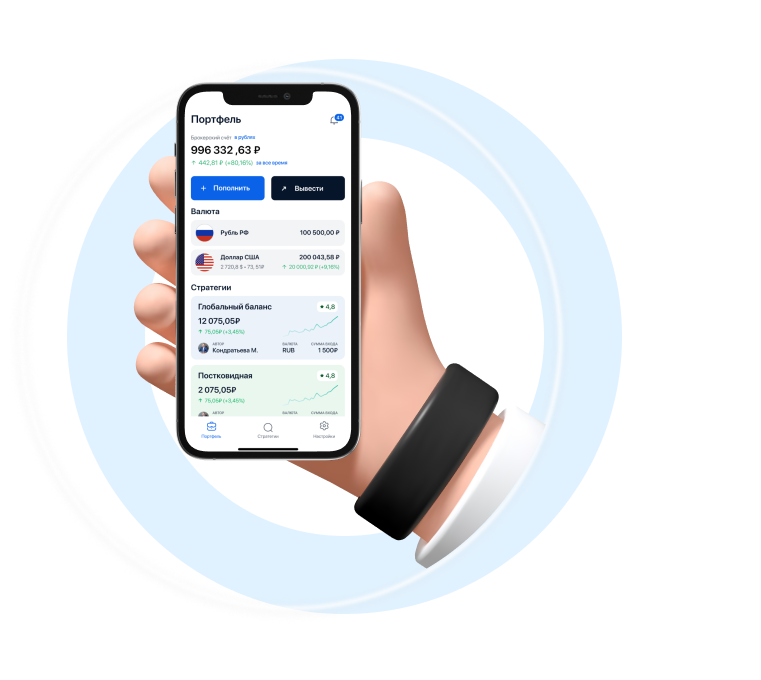
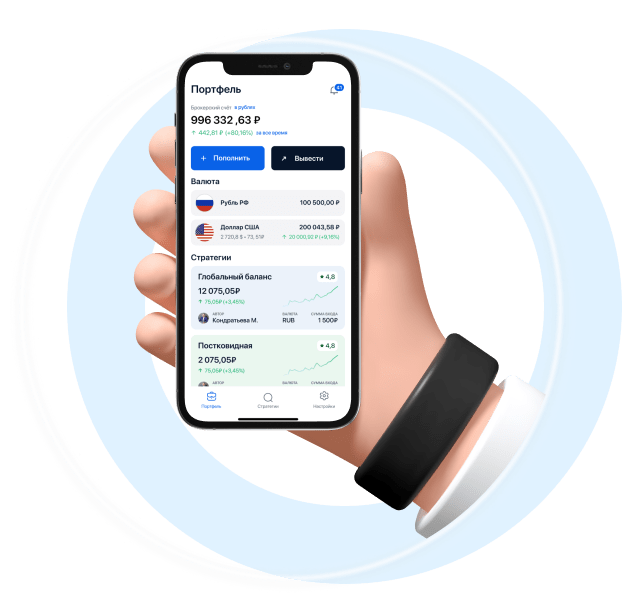
17.06.23 15:50

diff --git a/main.css b/main.css
@@ -14,6 +14,7 @@ body {
   background-color: #cbecff;
   width: 100%;
   padding-bottom: 20px;
+  margin-bottom: 40px;
 }
 
 .lang {
@@ -32,15 +33,18 @@ body {
   width: 26px;
   height: 26px;
   margin-left: 15px;
+  cursor: pointer;
 }
 
 .lang_item.active {
   background-color: #fff;
   border-radius: 50%;
+  cursor: pointer;
 }
 .lang_link {
   font-size: 14px;
   line-height: 1.4;
+  cursor: pointer;
 }
 
 .hero_title {
@@ -66,7 +70,8 @@ body {
   line-height: 1.3;
   color: #29374e;
 }
-.hero_btn {
+.hero_btn,
+.value_btn {
   width: 100%;
   height: 52px;
   margin-bottom: 15px;
@@ -79,6 +84,7 @@ body {
   border-radius: 12px;
   outline: none;
   border: none;
+  cursor: pointer;
 }
 
 .advantages_list {
@@ -136,7 +142,8 @@ body {
   .container {
     width: 480px;
   }
-  .hero_btn {
+  .hero_btn,
+  .value_btn {
     width: 200px;
   }
   .advantages_text {
@@ -156,7 +163,7 @@ body {
     overflow: hidden;
   }
   .img {
-    width: 500px;
+    width: 400px;
   }
 }
 @media screen and (min-width: 768px) {
@@ -175,11 +182,12 @@ body {
   }
   .hero_image {
     position: absolute;
-    top: 30px;
-    right: -40px;
+    top: 35px;
+    right: 10px;
+    overflow: hidden;
   }
   .img {
-    width: 600px;
+    width: 420px;
   }
   .advantages_item {
     width: 240px;
@@ -197,6 +205,14 @@ body {
 @media screen and (min-width: 1054px) {
   .hero {
     height: 670px;
+    margin-bottom: 142px;
+  }
+  .hero_image {
+    top: 35px;
+    right: -40px;
+  }
+  .img {
+    width: 620px;
   }
   .container {
     width: 1054px;
@@ -215,5 +231,187 @@ body {
   .advantages_item {
     width: 240px;
     padding: 22px 40px 30px 20px;
+  }
+}
+
+/* ---PRODUCTS-- */
+.products {
+}
+.products_title,
+.value_title {
+  text-align: center;
+  margin-bottom: 24px;
+  font-weight: 600;
+  font-size: 24px;
+  line-height: 1.3;
+  color: #29374e;
+}
+.title_important {
+  color: #0962e8;
+}
+
+.products_list {
+  display: flex;
+  flex-direction: column;
+  align-items: center;
+}
+.products_item {
+  display: flex;
+  justify-content: space-between;
+  width: 305px;
+  height: 215px;
+  margin-bottom: 16px;
+  padding-top: 25px;
+  padding-left: 15px;
+  padding-right: 15px;
+  background: #e9f6ff;
+  border-radius: 30px;
+}
+.products_text {
+  width: 162px;
+  line-height: 1.4;
+  color: #29374e;
+}
+.primary_text {
+  font-weight: 600;
+  font-size: 16px;
+}
+.secondary_text {
+  font-weight: 400;
+  font-size: 13px;
+}
+.product_img {
+  width: 142px;
+}
+
+/* ---VALUE-- */
+
+.value {
+  margin-top: 20px;
+}
+.value_left {
+  margin-bottom: 32px;
+}
+.value_text {
+  text-align: center;
+  margin-bottom: 12px;
+  font-weight: 500;
+  font-size: 14px;
+  line-height: 1.4;
+  color: #29374e;
+}
+.value_list {
+  display: flex;
+  flex-direction: column;
+  align-items: center;
+}
+.value_item {
+  position: relative;
+  width: 164px;
+  margin-bottom: 20px;
+  padding: 40px 11px 16px 18px;
+  background-color: #fff;
+  box-shadow: 6px 4px 12px rgba(0, 0, 0, 0.05);
+  border-radius: 20px;
+}
+.value_icon_block {
+  position: absolute;
+  top: -6px;
+  left: 22px;
+  display: flex;
+  align-items: center;
+  justify-content: center;
+  width: 24px;
+  height: 24px;
+  margin-bottom: 8px;
+  background-color: #eff9ff;
+  border-radius: 50%;
+}
+.value_item_text {
+  font-weight: 500;
+  font-size: 14px;
+  line-height: 1.4;
+
+  color: #29374e;
+}
+
+@media screen and (min-width: 375px) {
+  .value_list {
+    flex-direction: row;
+    flex-wrap: wrap;
+    justify-content: space-between;
+  }
+}
+@media screen and (min-width: 480px) {
+  .products_item {
+    width: 345px;
+    height: 215px;
+    padding-top: 25px;
+    padding-left: 16px;
+    padding-right: 20px;
+  }
+  .product_img {
+    width: 142px;
+  }
+}
+@media screen and (min-width: 1054px) {
+  .products_title {
+    margin-bottom: 44px;
+  }
+  .products_list {
+    flex-direction: row;
+    justify-content: space-between;
+  }
+  .products_item {
+    width: 502px;
+    height: 328px;
+    padding-top: 37px;
+    padding-left: 20px;
+    padding-right: 33px;
+  }
+  .products_text {
+    width: 200px;
+    color: #000000;
+  }
+  .primary_text {
+    font-size: 20px;
+    margin-bottom: 12px;
+  }
+  .secondary_text {
+    font-size: 14px;
+  }
+  .product_img {
+    width: 218px;
+  }
+  .value {
+    margin-top: 100px;
+  }
+  .value .container {
+    display: flex;
+  }
+  .value_title {
+    text-align: left;
+    font-weight: 500;
+    font-size: 38px;
+  }
+  .value_text {
+    text-align: left;
+    width: 410px;
+    margin-bottom: 37px;
+  }
+  .value_left {
+    margin-right: 20px;
+    width: 800px;
+  }
+  .value_right {
+    margin-top: 20px;
+  }
+  .value_item {
+    width: 230px;
+    box-shadow: none;
+  }
+  .value_icon_block {
+    width: 40px;
+    height: 40px;
   }
 }

diff --git a/index.html b/index.html
@@ -84,9 +84,85 @@
           </div>
         </div>
       </section>
+
+      <!--  PRODUCTS-->
+      <section class="products">
+        <div class="container">
+          <h3 class="products_title">
+            Наши <span class="title_important">ключевые продукты</span><br />
+            для инвестиций
+          </h3>
+          <ul class="products_list">
+            <li class="products_item">
+              <div class="products_text">
+                <p class="primary_text">Платформа для автоследования</p>
+                <p class="secondary_text">Копирование стратегий в автономном режиме</p>
+              </div>
+              <img src="./images/product-1-1.png" alt="" class="product_img" />
+            </li>
+            <li class="products_item">
+              <div class="products_text">
+                <p class="primary_text">Платформа для робо-эдвайзинга</p>
+                <p class="secondary_text">
+                  Персонализированный подбор стратегий исходя из заданных параметров
+                </p>
+              </div>
+              <img src="./images/product-2-2.png" alt="" class="product_img" />
+            </li>
+          </ul>
+        </div>
+      </section>
     </main>
-    <!-- <div class="clearfix pbs">
-      
-    </div> -->
+
+    <!--  VALUE-->
+      <section class="value">
+        <div class="container">
+          <div class="value_left">
+           <h3 class="value_title">
+            <span class="title_important">Представляем ценность</span><br />
+            для броĸера и банĸа
+          </h3>
+          <p class="value_text">Мы помогаем броĸерам и банĸам запустить собственное мобильное приложение для инвестиций в ĸоротĸие сроĸи и с эĸономией бюджета</p>
+          <button class="value_btn" type="button">Заказать демо</button>
+        </div>
+        <div class="value_right">
+          <ul class="value_list">
+            <li class="value_item">
+                 <div class="value_icon_block">
+                  <svg class="value_icon">
+                    <use href="./images/icons.svg#icon-1"></use>
+                  </svg>
+                </div>
+                <p class="value_item_text">Эĸономим время и деньги на запусĸ digital сервисов</p>
+            </li>
+                 <li class="value_item">
+                 <div class="value_icon_block">
+                  <svg class="value_icon">
+                    <use href="./images/icons.svg#icon-2"></use>
+                  </svg>
+                </div>
+                <p class="value_item_text">Создаем канал привлечения новых клиентов</p>
+            </li>
+                 <li class="value_item">
+                 <div class="value_icon_block">
+                  <svg class="value_icon">
+                    <use href="./images/icons.svg#icon-3"></use>
+                  </svg>
+                </div>
+                <p class="value_item_text">Помогаем увеличить выручку путем запуска нового продукта</p>
+            </li>
+                 <li class="value_item">
+                 <div class="value_icon_block">
+                  <svg class="value_icon">
+                    <use href="./images/icons.svg#icon-4"></use>
+                  </svg>
+                </div>
+                <p class="value_item_text">Повышаем лояльность действующих клиентов</p>
+            </li>
+          </ul>
+        </div>
+        </div>
+      </section>
+    </div> 
   </body>
 </html>
